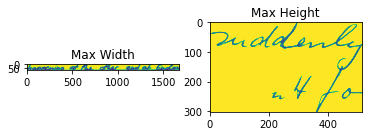
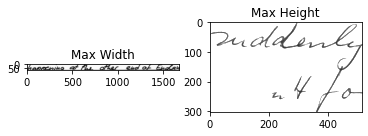
IAM-Additional Code Plot update

Changed region(s): [[0.5679, 0.1471, 0.9864, 0.8235], [0.0598, 0.4706, 0.5082, 0.5294]]

diff --git a/Additional_Codes/IAM/ImageSizeDecider.py b/Additional_Codes/IAM/ImageSizeDecider.py
@@ -34,11 +34,11 @@ print("Avarage Height : ", sum(image_heights) / len(image_heights),
 
 fig = plt.figure()
 ax = fig.add_subplot(1, 2, 1)
-imgplot =plt.imshow(mpimg.imread(file_names[maxw_index]))
+imgplot =plt.imshow(mpimg.imread(file_names[maxw_index]), cmap="gray")
 ax.set_title('Max Width')
 
 ax = fig.add_subplot(1, 2, 2)
-imgplot = plt.imshow(mpimg.imread(file_names[maxh_index]))
+imgplot = plt.imshow(mpimg.imread(file_names[maxh_index]),cmap="gray")
 imgplot.set_clim(0.0, 0.7)
 ax.set_title('Max Height')
 
